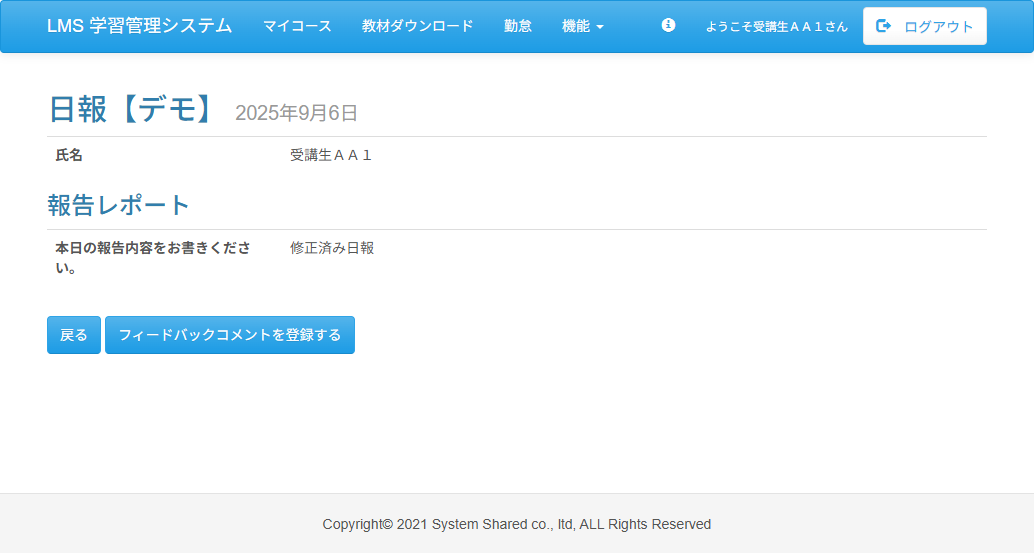
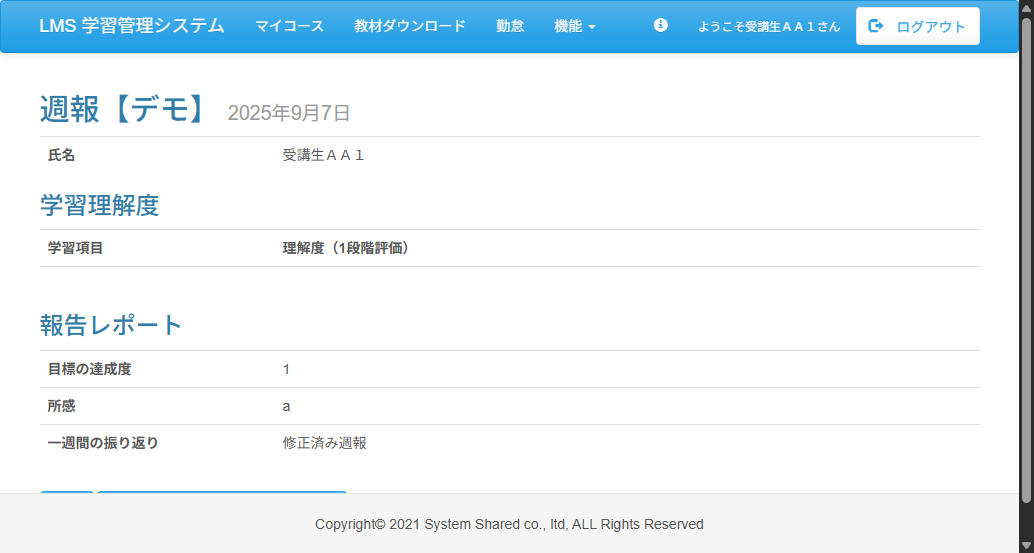
fix:Case08を修正
Case08は週報を対象としたテストのため、テストコードを週報を対象に修正

diff --git a/test_code_creation_name/src/test/java/jp/co/sss/lms/ct/f03_report/Case08.java b/test_code_creation_name/src/test/java/jp/co/sss/lms/ct/f03_report/Case08.java
@@ -70,7 +70,7 @@ public class Case08 {
 	@DisplayName("テスト03 提出済の研修日の「詳細」ボタンを押下しセクション詳細画面に遷移")
 	void test03() {
 		// TODO ここに追加
-		final WebElement qa = webDriver.findElement(By.xpath("//*[@id=\"main\"]/div/div[2]/div[2]/table/tbody/tr[1]/td[5]/form/input[3]"));
+		final WebElement qa = webDriver.findElement(By.xpath("//*[@id=\"main\"]/div/div[2]/div[2]/table/tbody/tr[2]/td[5]/form/input[3]"));
 		qa.click();
 		WebDriverUtils.getEvidence(new Object() {
 		});
@@ -81,7 +81,8 @@ public class Case08 {
 	@DisplayName("テスト04 「確認する」ボタンを押下しレポート登録画面に遷移")
 	void test04() {
 		// TODO ここに追加
-		final WebElement qa = webDriver.findElement(By.xpath("//*[@id=\"sectionDetail\"]/table/tbody/tr[2]/td/form/input[6]"));
+		scrollBy("200");
+		final WebElement qa = webDriver.findElement(By.xpath("//*[@id=\"sectionDetail\"]/table[2]/tbody/tr[3]/td/form/input[6]"));
 		qa.click();
 		WebDriverUtils.getEvidence(new Object() {
 		});
@@ -92,12 +93,13 @@ public class Case08 {
 	@DisplayName("テスト05 報告内容を修正して「提出する」ボタンを押下しセクション詳細画面に遷移")
 	void test05() {
 		// TODO ここに追加
-		final WebElement report = webDriver.findElement(By.id("content_0"));
+		scrollBy("600");
+		final WebElement report = webDriver.findElement(By.id("content_2"));
 		report.clear();
-		report.sendKeys("修正済み日報");
-		final WebElement qa = webDriver.findElement(By.xpath("//*[@id=\"main\"]/form/div[2]/fieldset/div/div/button"));
+		report.sendKeys("修正済み週報");
+		final WebElement qa = webDriver.findElement(By.xpath("//*[@id=\"main\"]/form/div[3]/fieldset/div/div/button"));
 		qa.click();
-		assertEquals("http://localhost:8080/lms/section/detail?sectionId=1", webDriver.getCurrentUrl());
+		assertEquals("http://localhost:8080/lms/section/detail?sectionId=2", webDriver.getCurrentUrl());
 		WebDriverUtils.getEvidence(new Object() {
 		});
 	}
@@ -120,9 +122,9 @@ public class Case08 {
 	void test07() {
 		// TODO ここに追加
 		scrollBy("600");
-	final WebElement qa = webDriver.findElement(By.xpath("//*[@id=\"main\"]/table[3]/tbody/tr[3]/td[5]/form[1]/input[1]"));
+	final WebElement qa = webDriver.findElement(By.xpath("//*[@id=\"main\"]/table[3]/tbody/tr[2]/td[5]/form[1]/input[1]"));
 	qa.click();
-	assertEquals("http://localhost:8080/lms/report/detail", webDriver.getCurrentUrl());
+	assertEquals("レポート詳細 | LMS", webDriver.getTitle());
 	WebDriverUtils.getEvidence(new Object() {
 	});
 	}
